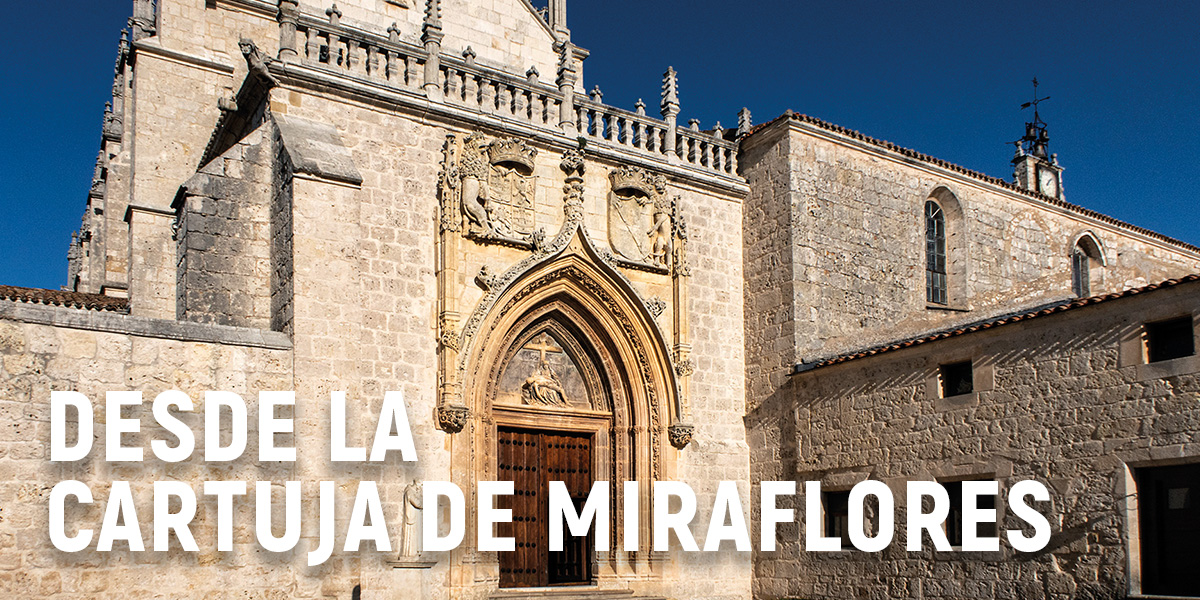
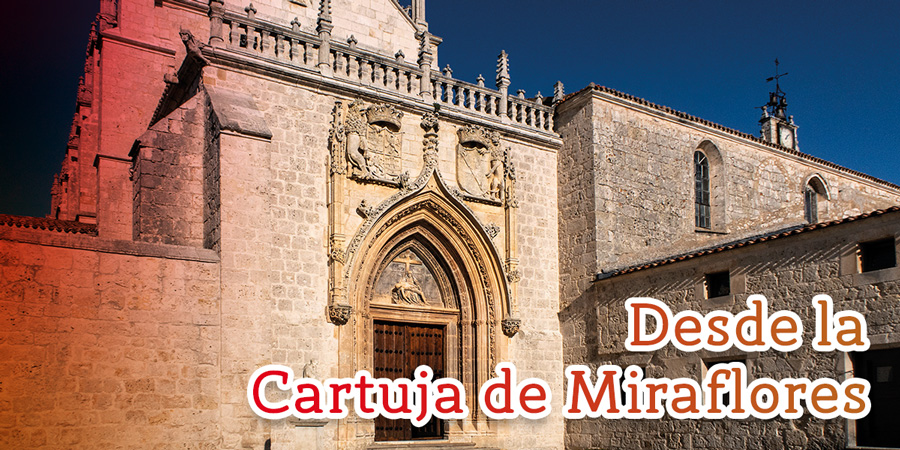
Change home and miradores photos

diff --git a/src/ui/pages/Miradores/Miradores.jsx b/src/ui/pages/Miradores/Miradores.jsx
@@ -1,78 +1,55 @@
 import { Link } from 'react-router-dom';
-import mirador1photo from '../../../assets/images/headers/mirador-1-cabecera.jpg';
-import mirador2photo from '../../../assets/images/headers/mirador-2-cabecera.jpg';
-import mirador3photo from '../../../assets/images/headers/mirador-3-cabecera.jpg';
-import mirador4photo from '../../../assets/images/headers/mirador-4-cabecera.jpg';
-import mirador5photo from '../../../assets/images/headers/mirador-5-cabecera.jpg';
-import mirador6photo from '../../../assets/images/headers/mirador-6-cabecera.jpg';
-import mirador7photo from '../../../assets/images/headers/mirador-7-cabecera.jpg';
-import mirador8photo from '../../../assets/images/headers/mirador-8-cabecera.jpg';
+import mirador1photo from '../../../assets/images/miradores/mirador1.jpg';
+import mirador2photo from '../../../assets/images/miradores/mirador2.jpg';
+import mirador3photo from '../../../assets/images/miradores/mirador3.jpg';
+import mirador4photo from '../../../assets/images/miradores/mirador4.jpg';
+import mirador5photo from '../../../assets/images/miradores/mirador5.jpg';
+import mirador6photo from '../../../assets/images/miradores/mirador6.jpg';
+import mirador7photo from '../../../assets/images/miradores/mirador7.jpg';
+import mirador8photo from '../../../assets/images/miradores/mirador8.jpg';
 
 const Miradores = () => {
   return (
     <div className="home">
       <Link to="/miradores/1">
-        <div
-          className="home__mirador"
-          style={{ backgroundImage: `url(${mirador1photo})` }}
-        >
-          <p className="home__title">Desde Museo Evolución</p>
+        <div className="home__mirador">
+          <img src={mirador1photo} alt="mirador1"></img>
         </div>
       </Link>
       <Link to="/miradores/2">
-        <div
-          className="home__mirador"
-          style={{ backgroundImage: `url(${mirador2photo})` }}
-        >
-          <p className="home__title">Desde El Espolón</p>{' '}
+        <div className="home__mirador">
+          <img src={mirador2photo} alt="mirador2"></img>
         </div>
       </Link>
       <Link to="/miradores/3">
-        <div
-          className="home__mirador"
-          style={{ backgroundImage: `url(${mirador3photo})` }}
-        >
-          <p className="home__title">Desde la Plaza Mayor</p>{' '}
+        <div className="home__mirador">
+          <img src={mirador3photo} alt="mirador3"></img>
         </div>
       </Link>
       <Link to="/miradores/4">
-        <div
-          className="home__mirador"
-          style={{ backgroundImage: `url(${mirador4photo})` }}
-        >
-          <p className="home__title">Desde Las Llanas</p>{' '}
+        <div className="home__mirador">
+          <img src={mirador4photo} alt="mirador4"></img>
         </div>
       </Link>
       <Link to="/miradores/5">
-        <div
-          className="home__mirador"
-          style={{ backgroundImage: `url(${mirador5photo})` }}
-        >
-          <p className="home__title">Desde El Castillo</p>{' '}
+        <div className="home__mirador">
+          <img src={mirador5photo} alt="mirador5"></img>
         </div>
       </Link>
       <Link to="/miradores/6">
-        <div
-          className="home__mirador"
-          style={{ backgroundImage: `url(${mirador6photo})` }}
-        >
-          <p className="home__title">Desde San Nicolás</p>{' '}
+        <div className="home__mirador">
+          <img src={mirador6photo} alt="mirador6"></img>
         </div>
       </Link>
       <Link to="/miradores/7">
-        <div
-          className="home__mirador"
-          style={{ backgroundImage: `url(${mirador7photo})` }}
-        >
-          <p className="home__title">Desde Puente Besson</p>{' '}
+        <div className="home__mirador">
+          {' '}
+          <img src={mirador7photo} alt="mirador7"></img>
         </div>
       </Link>
       <Link to="/miradores/8">
-        <div
-          className="home__mirador"
-          style={{ backgroundImage: `url(${mirador8photo})` }}
-        >
-          <p className="home__title">Desde Puente Santa María</p>{' '}
+        <div className="home__mirador">
+          <img src={mirador8photo} alt="mirador8"></img>
         </div>
       </Link>
     </div>

diff --git a/src/ui/pages/Miradores/miradores.scss b/src/ui/pages/Miradores/miradores.scss
@@ -12,19 +12,21 @@
   }
 
   &__mirador {
-    height: rem(250);
+    height: rem(200);
     background-size: cover;
     background-repeat: no-repeat;
     margin: rem(20) rem(0);
     border-radius: rem(10);
     position: relative;
-  }
+    overflow: hidden;
 
-  &__title {
-    position: absolute;
-    bottom: rem(20);
-    right: rem(20);
-    color: $light-color;
-    font-size: rem(20);
+    @include tablet {
+      height: rem(320);
+    }
+
+    & > img {
+      width: 100%;
+      height: 100%;
+    }
   }
 }
